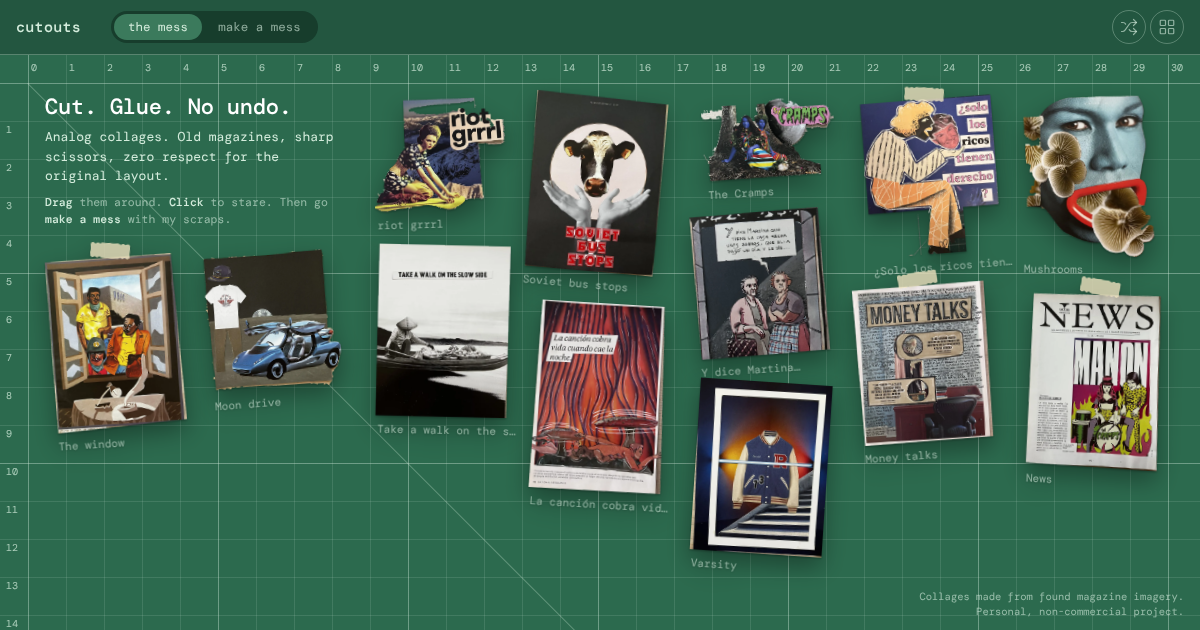
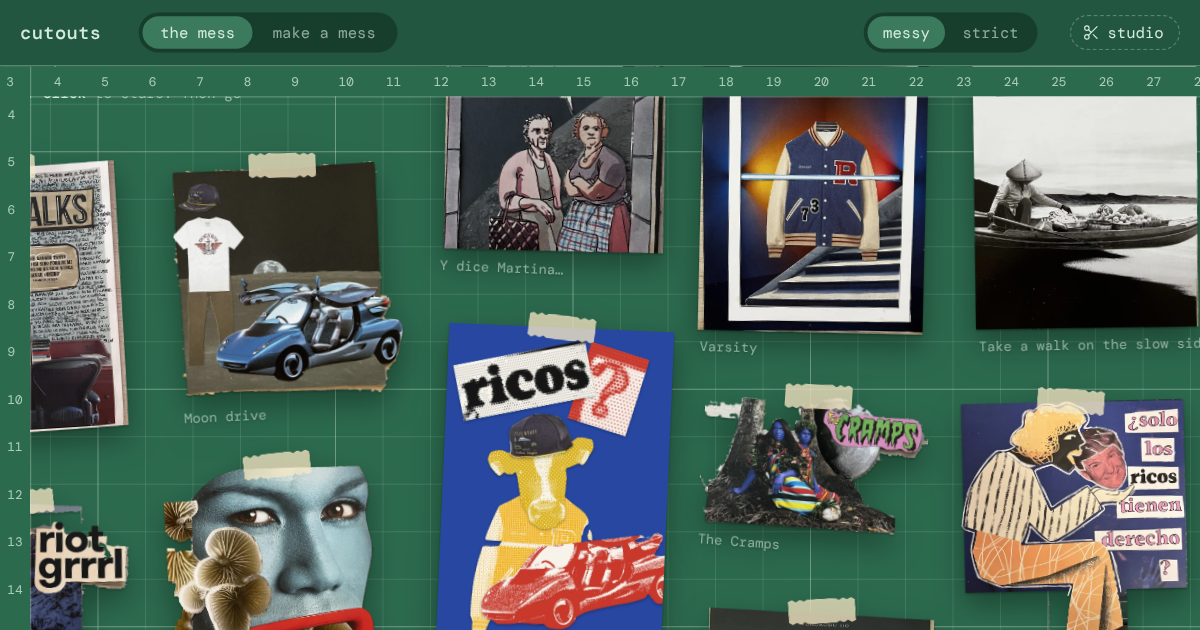
Names and descriptions on collages; clearer pin panel; new share image
- pin panel: preview, name, description (280), signature, and a 'sent' state
- studio: description field; inbox shows name and description
- zoomed collage shows its description and author
- og.png: the table, slightly zoomed

Claude-Session: https://claude.ai/code/session_01NjFahDLsvaMTZ3etuxnLXL

diff --git a/index.html b/index.html
@@ -107,6 +107,10 @@ svg.i{width:18px;height:18px;fill:none;stroke:currentColor;stroke-width:1.6;stro
 .zbar .ib{border-color:transparent;width:32px;height:32px}
 .zbar .ib:hover{border-color:var(--mat-line-strong)}
 .zbar .zt{color:var(--mint);font-size:13px;white-space:nowrap;overflow:hidden;text-overflow:ellipsis;max-width:46vw}
+.zbar .zby{color:var(--mat-ink);font-size:11.5px;white-space:nowrap}
+.zbar .zby:empty{display:none}
+.zcap{position:absolute;z-index:60;left:50%;bottom:calc(max(18px,env(safe-area-inset-bottom,0px)) + 56px);transform:translateX(-50%);width:min(520px,calc(100% - 32px));margin:0;padding:10px 14px;background:rgba(23,61,44,.92);border-radius:12px;color:var(--mint);font-size:12.5px;line-height:1.5;text-align:center;box-shadow:var(--shadow)}
+.zcap[hidden]{display:none}
 .zbar .zn{color:var(--mat-ink);font-size:11.5px;font-variant-numeric:tabular-nums}
 .wall .rulers::before,.wall .rulers::after{content:"";position:absolute;background:var(--mat)}
 .wall .rulers::before{left:0;right:0;top:0;height:24px;box-shadow:0 1px 0 var(--mat-line-strong)}
@@ -146,6 +150,12 @@ svg.i{width:18px;height:18px;fill:none;stroke:currentColor;stroke-width:1.6;stro
 .pinbtn[hidden]{display:none}
 .pinpop{position:fixed;z-index:120;right:max(16px,env(safe-area-inset-right,0px));top:62px;width:270px;background:var(--mat-dark);border:1px solid var(--mat-line-strong);border-radius:16px;padding:16px;box-shadow:var(--shadow-up)}
 .pinpop[hidden]{display:none}
+.pinpop{width:320px!important;max-height:calc(100dvh - 80px);overflow:auto}
+.pp-head{display:flex;gap:12px;align-items:center;margin-bottom:14px}
+.pp-head img{width:54px;height:76px;object-fit:cover;border-radius:4px;box-shadow:var(--shadow);background:#151515;flex:0 0 auto}
+.pp-l{display:flex;justify-content:space-between;font-size:11px;color:var(--mat-ink);margin:0 0 5px}
+.pp-l span{font-variant-numeric:tabular-nums}
+.pp-ta{resize:vertical;min-height:62px;line-height:1.45}
 .pp-t{margin:0 0 2px;font-weight:500;font-size:14px;color:#fff}
 .pp-s{margin:0 0 12px;font-size:11.5px;color:var(--mat-ink)}
 .pp-in{width:100%;background:var(--mat);border:1px solid var(--mat-line-strong);border-radius:10px;padding:8px 10px;color:var(--mint);font:inherit;outline:none;margin-bottom:12px}
@@ -546,10 +556,21 @@ body.scrubbing,body.scrubbing *{cursor:ew-resize!important}
   </div>
 </div>
 <div class="pinpop" id="pinpop" hidden role="dialog" aria-label="Pin to the table">
-  <p class="pp-t">Pin it to the table</p>
-  <p class="pp-s">Goes up once it's had a look.</p>
-  <input class="pp-in" id="pin-name" maxlength="40" placeholder="sign it (optional)" aria-label="Your name or handle">
-  <div class="pp-row"><button class="pp-ghost" id="pin-cancel">Not yet</button><button class="pp-btn" id="pin-go">Pin it</button></div>
+  <div id="pp-form">
+    <div class="pp-head"><img id="pp-thumb" alt="Your collage"><div><p class="pp-t">Pin it to the table</p><p class="pp-s">Everyone will see it once it's had a look.</p></div></div>
+    <label class="pp-l" for="pin-title">Name it</label>
+    <input class="pp-in" id="pin-title" maxlength="60" placeholder="Untitled mess">
+    <label class="pp-l" for="pin-desc">What's going on here? <span id="pp-count">0/280</span></label>
+    <textarea class="pp-in pp-ta" id="pin-desc" maxlength="280" rows="3" placeholder="Optional. A story, a joke, a confession."></textarea>
+    <label class="pp-l" for="pin-name">Sign it</label>
+    <input class="pp-in" id="pin-name" maxlength="40" placeholder="Name or @handle. Optional.">
+    <div class="pp-row"><button class="pp-ghost" id="pin-cancel">Not yet</button><button class="pp-btn" id="pin-go">Pin it</button></div>
+  </div>
+  <div id="pp-done" hidden>
+    <p class="pp-t">Sent.</p>
+    <p class="pp-s">It shows up on the table once it's been approved. Usually soon-ish.</p>
+    <div class="pp-row"><button class="pp-btn" id="pin-ok">Keep messing</button></div>
+  </div>
 </div>
 <div class="toast" id="toast" hidden></div>
 
@@ -672,8 +693,9 @@ function render(){}
 let Z=null,placed=[];
 function boardT(X,Y,R,S,A,B){board.style.transform=`translate(${X}px,${Y}px) rotate(${R}deg) scale(${S}) translate(${A}px,${B}px)`}
 const zbar=document.createElement("div");zbar.className="zbar";zbar.hidden=true;
-zbar.innerHTML=`<button class="ib" data-z="-1" aria-label="Previous"><svg class="i"><use href="#i-left"/></svg></button><span class="zt" id="zt"></span><span class="zn" id="zn"></span><button class="ib" data-z="1" aria-label="Next"><svg class="i"><use href="#i-right"/></svg></button><button class="ib" data-z="x" aria-label="Back to the table"><svg class="i"><use href="#i-x"/></svg></button>`;
+zbar.innerHTML=`<button class="ib" data-z="-1" aria-label="Previous"><svg class="i"><use href="#i-left"/></svg></button><span class="zt" id="zt"></span><span class="zby" id="zby"></span><span class="zn" id="zn"></span><button class="ib" data-z="1" aria-label="Next"><svg class="i"><use href="#i-right"/></svg></button><button class="ib" data-z="x" aria-label="Back to the table"><svg class="i"><use href="#i-x"/></svg></button>`;
 mesa.appendChild(zbar);
+const zcap=document.createElement("p");zcap.className="zcap";zcap.hidden=true;mesa.appendChild(zcap);
 zbar.addEventListener("pointerdown",e=>e.stopPropagation());
 zbar.addEventListener("click",e=>{const b=e.target.closest("[data-z]");if(!b)return;b.dataset.z==="x"?unzoom():stepZoom(+b.dataset.z)});
 function zoomTo(el,instant){
@@ -685,12 +707,13 @@ function zoomTo(el,instant){
   Z.el=el;el.classList.add("zoomed");mesa.classList.add("zoomed");document.body.classList.add("zoomin");
   board.classList.toggle("zooming",!instant&&!reduce);
   boardT(W/2,(H-barH)/2+12,-p.r,s,-(p.x+p.cw/2),-(p.y+p.ch/2));
-  const w=WORKS[+el.dataset.i];$("#zt").textContent=w?w.t:"";$("#zn").textContent=`${String(placed.indexOf(el)+1).padStart(2,"0")} / ${placed.length}`;
+  const w=WORKS[+el.dataset.i];$("#zt").textContent=w?w.t:"";$("#zby").textContent=w&&w.by?"by "+w.by:"";
+  zcap.textContent=w&&w.desc?w.desc:"";zcap.hidden=!(w&&w.desc);$("#zn").textContent=`${String(placed.indexOf(el)+1).padStart(2,"0")} / ${placed.length}`;
   zbar.hidden=false;
 }
 function unzoom(instant){
   if(!Z)return;const z=Z;Z=null;
-  if(z.el)z.el.classList.remove("zoomed");mesa.classList.remove("zoomed");document.body.classList.remove("zoomin");zbar.hidden=true;
+  if(z.el)z.el.classList.remove("zoomed");mesa.classList.remove("zoomed");document.body.classList.remove("zoomin");zbar.hidden=true;zcap.hidden=true;
   board.classList.toggle("zooming",!instant&&!reduce);
   setCam(z.camX,z.camY,true);
 }
@@ -1609,10 +1632,19 @@ $("#btn-dl").onclick=async()=>{
 const PUB=(b,path)=>SB_URL+"/storage/v1/object/public/"+b+"/"+path;
 const pinBtn=$("#btn-pin"),pinPop=$("#pinpop");
 if(!inArtifact)pinBtn.hidden=false;
-pinBtn.onclick=()=>{if(!pieces.length){toast("Paste something first.");return}pinPop.hidden=!pinPop.hidden;if(!pinPop.hidden){$("#pin-name").value=store.get("recortes-signed")||"";$("#pin-name").focus()}};
+pinBtn.onclick=async()=>{
+  if(!pieces.length){toast("Your sheet is empty. Paste something first.");return}
+  if(!pinPop.hidden){pinPop.hidden=true;return}
+  $("#pp-form").hidden=false;$("#pp-done").hidden=true;pinPop.hidden=false;
+  $("#pin-name").value=store.get("recortes-signed")||"";$("#pp-count").textContent=$("#pin-desc").value.length+"/280";
+  $("#pin-title").focus();
+  try{const c=await renderSheet();$("#pp-thumb").src=c.toDataURL("image/jpeg",.6)}catch(e){}
+};
+$("#pin-desc").addEventListener("input",e=>$("#pp-count").textContent=e.target.value.length+"/280");
+$("#pin-ok").onclick=()=>pinPop.hidden=true;
 $("#pin-cancel").onclick=()=>pinPop.hidden=true;
 document.addEventListener("pointerdown",e=>{if(!pinPop.hidden&&!e.target.closest("#pinpop,#btn-pin"))pinPop.hidden=true});
-$("#pin-name").addEventListener("keydown",e=>{if(e.key==="Enter")$("#pin-go").click();if(e.key==="Escape")pinPop.hidden=true});
+pinPop.addEventListener("keydown",e=>{if(e.key==="Escape")pinPop.hidden=true;if(e.key==="Enter"&&e.target.tagName==="INPUT")$("#pin-go").click()});
 $("#pin-go").onclick=async()=>{
   const last=store.get("recortes-pinned-at")||0;
   if(Date.now()-last<60000){toast("Easy. One a minute.");return}
@@ -1624,9 +1656,14 @@ $("#pin-go").onclick=async()=>{
     let r=await fetch(SB_URL+"/storage/v1/object/community/"+path,{method:"POST",headers:{...h,"Content-Type":"image/webp","x-upsert":"false"},body:blob});
     if(!r.ok)throw new Error("upload "+r.status+" "+await r.text());
     const signed=$("#pin-name").value.trim().slice(0,40)||null;store.set("recortes-signed",signed||"");
-    r=await fetch(SB_URL+"/rest/v1/community",{method:"POST",headers:{...h,"Content-Type":"application/json",Prefer:"return=minimal"},body:JSON.stringify({id,image_path:path,signed,w:c.width,h:c.height})});
+    const title=$("#pin-title").value.trim().slice(0,60)||null,description=$("#pin-desc").value.trim().slice(0,280)||null;
+    const send=body=>fetch(SB_URL+"/rest/v1/community",{method:"POST",headers:{...h,"Content-Type":"application/json",Prefer:"return=minimal"},body:JSON.stringify(body)});
+    const base={id,image_path:path,signed,w:c.width,h:c.height};
+    r=await send({...base,title,description});
+    if(!r.ok&&r.status===400){const t=await r.text();if(/column/i.test(t))r=await send(base);else throw new Error("save 400 "+t)}
     if(!r.ok)throw new Error("save "+r.status+" "+await r.text());
-    store.set("recortes-pinned-at",Date.now());pinPop.hidden=true;toast("Sent. It goes up once it's had a look.");
+    store.set("recortes-pinned-at",Date.now());$("#pin-title").value="";$("#pin-desc").value="";
+    $("#pp-form").hidden=true;$("#pp-done").hidden=false;$("#pin-ok").focus();
     if(ownerSignedIn())loadPending();
   }catch(e){console.error(e);toast("Couldn't pin it. Try again in a bit.")}
   go.disabled=false;go.textContent="Pin it";
@@ -1641,7 +1678,7 @@ async function ownerClient(){
 async function loadPending(){
   try{const sb=await ownerClient(),{data}=await sb.from("community").select("*").eq("approved",false).order("created_at",{ascending:false});
     (data||[]).forEach(r=>{const id="c-"+r.id;if(WORKS.some(w=>w.id===id))return;REMOTE["a/"+id+".webp"]=PUB("community",r.image_path);
-      addWork({id,t:r.signed?"by "+r.signed:"a visitor's mess",w:r.w,h:r.h,pending:true,row:r})});
+      addWork({id,t:r.title||(r.signed?"by "+r.signed:"a visitor's mess"),by:r.title&&r.signed?r.signed:null,desc:r.description,w:r.w,h:r.h,pending:true,row:r})});
   }catch(e){console.error(e)}
 }
 board.addEventListener("click",async e=>{
@@ -1660,13 +1697,13 @@ async function loadRemote(){
     const [cs,ss]=await Promise.all([get("collages?select=*&published=eq.true&order=sort.asc,created_at.asc"),get("scraps?select=*&published=eq.true&order=sort.asc,created_at.asc")]);
     clearTimeout(t);
     const pub=(b,path)=>SB_URL+"/storage/v1/object/public/"+b+"/"+path;
-    cs.forEach(r=>{if(WORKS.some(w=>w.id===r.id))return;REMOTE["a/"+r.id+".webp"]=pub("collages",r.image_path);LAYERS[r.id]=r.layers||[];addWork({id:r.id,t:r.title,w:r.w,h:r.h})});
+    cs.forEach(r=>{if(WORKS.some(w=>w.id===r.id))return;REMOTE["a/"+r.id+".webp"]=pub("collages",r.image_path);LAYERS[r.id]=r.layers||[];addWork({id:r.id,t:r.title,desc:r.description,w:r.w,h:r.h})});
     ss.forEach(r=>{if(SCRAPS.some(x=>x.id===r.id))return;REMOTE["s/"+r.id+".webp"]=pub("scraps",r.image_path);CL[r.id]=r.cluster;
       const sc={id:r.id,w:r.w,h:r.h,g:r.cluster==="words"||r.cluster==="heads"?"txt":"img",t:r.title};SCRAPS.push(sc);
       const sec=libEls[clusterOf(sc.id)];if(sec){sec.querySelector(".lib").appendChild(scrapButton(sc));sec.querySelector(".lib-t span").textContent=sec.querySelectorAll(".scrap").length}});
     if(ss.length)renderFilter();
     const vs=await get("community?select=*&approved=eq.true&order=created_at.desc&limit=60");
-    vs.forEach(r=>{const id="c-"+r.id;if(WORKS.some(w=>w.id===id))return;REMOTE["a/"+id+".webp"]=PUB("community",r.image_path);addWork({id,t:r.signed?"by "+r.signed:"a visitor's mess",w:r.w,h:r.h})});
+    vs.forEach(r=>{const id="c-"+r.id;if(WORKS.some(w=>w.id===id))return;REMOTE["a/"+id+".webp"]=PUB("community",r.image_path);addWork({id,t:r.title||(r.signed?"by "+r.signed:"a visitor's mess"),by:r.title&&r.signed?r.signed:null,desc:r.description,w:r.w,h:r.h})});
     if(ownerSignedIn())loadPending();
     if((cs.length||vs.length)&&mode==="mesa")layout();
   }catch(e){}

diff --git a/studio.html b/studio.html
@@ -194,6 +194,7 @@ h2{font-weight:500;font-size:15px;margin:0 0 6px;color:#fff}
       <div class="side-scroll" id="pub-side">
         <h2>Pin it</h2>
         <div class="field"><label for="title">Title</label><input class="input" id="title" placeholder="Untitled mess"></div>
+        <div class="field"><label for="desc">Description</label><textarea class="input" id="desc" rows="3" maxlength="400" placeholder="Optional. Shows when someone zooms in." style="resize:vertical;line-height:1.45"></textarea></div>
         <p class="muted" id="pub-summary"></p>
         <div class="done-list" id="pub-list"></div>
       </div>
@@ -252,6 +253,7 @@ async function loadInbox(){
   note.textContent=data.length?`${data.length} waiting for a look.`:"Nothing waiting. Quiet day.";
   el.innerHTML=data.map(r=>`<div class="ibx" data-id="${r.id}" data-path="${r.image_path}">
     <img src="${SB_URL}/storage/v1/object/public/community/${r.image_path}" alt="" loading="lazy">
+    ${r.title?`<b style="display:block;margin-top:8px;font-weight:500;color:#fff">${r.title.replace(/</g,"&lt;")}</b>`:""}${r.description?`<p class="muted" style="margin:4px 0 0">${r.description.replace(/</g,"&lt;")}</p>`:""}
     <div class="row"><span class="who2">${r.signed?("by "+r.signed.replace(/</g,"&lt;")):"anonymous"}</span>
     <span class="row" style="margin:0"><button class="ghost" data-ib="bin">Bin</button><button class="btn" data-ib="ok">Pin it</button></span></div></div>`).join("");
 }
@@ -531,14 +533,17 @@ $("#publish").onclick=async()=>{
     const pieces=scraps.map((s,i)=>({s,id:base+"-"+(i+1)+"-"+slug(s.name).slice(0,16),img:fitTo(s.canvas,600)}));
     const depths=[.5,1,.8,.65,.95,.7,.9];
     const layers=pieces.filter(p=>p.s.par).map((p,i)=>({id:p.id,x:+(p.s.box[0]/trimmed.width*100).toFixed(2),y:+(p.s.box[1]/trimmed.height*100).toFixed(2),w:+(p.s.box[2]/trimmed.width*100).toFixed(2),d:depths[i%depths.length],src:SB_URL+"/storage/v1/object/public/scraps/"+p.id+".webp"}));
-    const row={id:base,title,image_path:base+".webp",w:col.width,h:col.height,layers,sort:Date.now()%2147483647};
+    const description=$("#desc").value.trim()||null;
+    const row={id:base,title,description,image_path:base+".webp",w:col.width,h:col.height,layers,sort:Date.now()%2147483647};
     const srows=pieces.filter(p=>p.s.lib).map((p,i)=>({id:p.id,title:p.s.name||title+" "+(i+1),cluster:p.s.cluster,image_path:p.id+".webp",w:p.img.width,h:p.img.height,collage_id:base,sort:row.sort}));
     if(DEMO){console.log({row,srows});toast("Demo: nothing pinned.");btn.disabled=false;return}
     btn.textContent="Gluing…";
     const up=async(bucket,path,c)=>{const {error}=await sb.storage.from(bucket).upload(path,await webp(c),{contentType:"image/webp",upsert:false});if(error)throw new Error(bucket+": "+error.message)};
     await up("collages",row.image_path,col);
     for(const p of pieces)await up("scraps",p.id+".webp",p.img);
-    let r=await sb.from("collages").insert(row);if(r.error)throw new Error(r.error.message);
+    let r=await sb.from("collages").insert(row);
+    if(r.error&&/description/.test(r.error.message)){const {description:_d,...rest}=row;r=await sb.from("collages").insert(rest)}
+    if(r.error)throw new Error(r.error.message);
     if(srows.length){r=await sb.from("scraps").insert(srows);if(r.error)throw new Error(r.error.message)}
     $("#pub-side").innerHTML=`<h2>Pinned.</h2><p class="muted">“${title.replace(/</g,"&lt;")}” is on the table. ${srows.length} new scrap${srows.length===1?"":"s"} in the pile.</p><div class="row"><a class="btn" href="./" id="see" style="text-decoration:none">See the mess</a><button class="ghost" id="again">Another one</button></div>`;
     $("#again").onclick=()=>location.reload();
